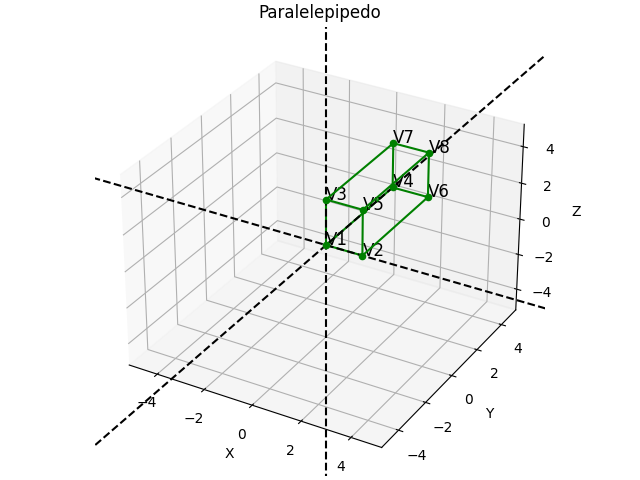
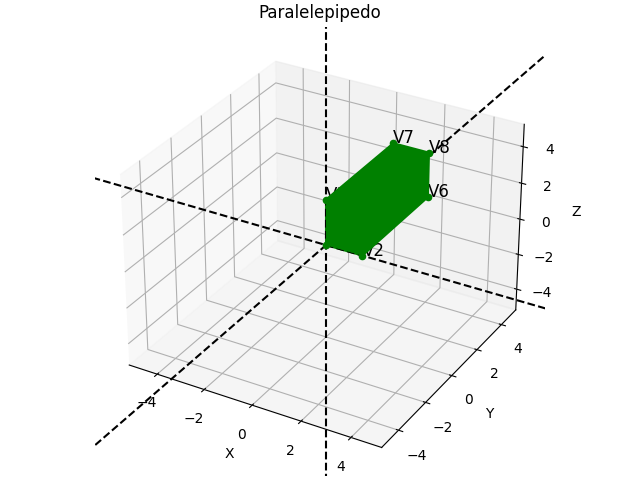
plot dos sólidos com volume (face pintada)

Changed region(s): [[0.5, 0.2812, 0.6875, 0.5312]]

diff --git a/trabalho2/src/PlotaSolido.py b/trabalho2/src/PlotaSolido.py
@@ -1,6 +1,7 @@
 from typing import List
 
 from matplotlib import pyplot as plt
+from mpl_toolkits.mplot3d import art3d
 
 from trabalho2.src.Solido import Solido
 
@@ -53,13 +54,14 @@ def plota_eixos(ax) -> None:
     ax.plot([0, 0], [0, 0], [40, -40], color='black', linestyle='dashed')
 
 
-def plota_solido(solido: Solido, com_arestas=True, com_pontos=False, com_eixos=True) -> None:
+def plota_solido(solido: Solido, com_arestas=True, com_pontos=False, com_eixos=True, com_volume=False) -> None:
     """
     Plota o sólido em um subplot
     :param solido: O sólido a ser plotado
     :param com_arestas: True, se arestas devem ser plotadas. False caso contrário.
     :param com_pontos: True, se vertices devem ser plotadas. False caso contrário.
     :param com_eixos: True, se eixos devem ser plotadas. False caso contrário.
+    :param com_volume: True, o sólido deve ter volume. False caso contrário.
     :return: None
     """
     fig, ax = inicia_grafico()
@@ -72,6 +74,10 @@ def plota_solido(solido: Solido, com_arestas=True, com_pontos=False, com_eixos=T
 
     if com_eixos:
         plota_eixos(ax)
+
+    if com_volume:
+        pc = art3d.Poly3DCollection(solido.vertice_faces(), facecolors=solido.cor)
+        ax.add_collection(pc)
 
     ax.set_title(solido.titulo)
 
@@ -88,13 +94,14 @@ def plota_solido(solido: Solido, com_arestas=True, com_pontos=False, com_eixos=T
 
 
 def plota_solidos(solidos: List[Solido], com_arestas=True, com_pontos=False, com_eixos=True,
-                  titulo: str = "image", *args) -> None:
+                  com_volume=False, titulo: str = "image") -> None:
     """
     Recebe uma lista de sólidos e os plota em um mesmo gráfico 3D
     :param solidos: Lista de sólidos a serem plotados
     :param com_arestas: True, se arestas devem ser plotadas. False caso contrário.
     :param com_pontos: True, se vertices devem ser plotadas. False caso contrário.
     :param com_eixos: True, se eixos devem ser plotadas. False caso contrário.
+    :param com_volume: True, se os sólidos devem ter volume. False caso contrário.
     :param titulo: Nome do arquivo e legenda
     :return: None
     """
@@ -106,6 +113,10 @@ def plota_solidos(solidos: List[Solido], com_arestas=True, com_pontos=False, com
 
         if com_arestas:
             plota_arestas(solido, ax)
+
+        if com_volume:
+            pc = art3d.Poly3DCollection(solido.vertice_faces(), facecolors=solido.cor)
+            ax.add_collection(pc)
 
     if com_eixos:
         plota_eixos(ax)

diff --git a/trabalho2/src/Solido.py b/trabalho2/src/Solido.py
@@ -9,13 +9,15 @@ from numpy import ndarray
 class Solido:
     vertices: dict = field(default_factory=dict)
     arestas: dict = field(default_factory=dict)
+    faces: dict = field(default_factory=dict)
     titulo: str = ""
     cor: str = ""
 
-    def __init__(self, vertices: dict, arestas: dict, titulo: str, cor: str):
+    def __init__(self, vertices: dict, arestas: dict, faces: dict, titulo: str, cor: str):
         self.vertices = vertices
         self.arestas = arestas
         self.titulo = titulo
+        self.faces = faces
         self.cor = cor
 
     def array_de_vertices(self) -> ndarray:
@@ -81,3 +83,12 @@ class Solido:
         media_z = np.median(matriz_vertices[:, [2]])
 
         return [media_x, media_y, media_z]
+
+    def vertice_faces(self) -> ndarray:
+        vertices_faces = []
+        for face, vertices_da_face in self.faces.items():
+            vertices = []
+            for vertice in vertices_da_face:
+                vertices.append(self.vertices[vertice])
+            vertices_faces.append(vertices)
+        return np.array(vertices_faces)

diff --git a/trabalho2/src/Cubo.py b/trabalho2/src/Cubo.py
@@ -31,6 +31,17 @@ def constroi_arestas():
     return arestas
 
 
+def constroi_faces():
+    faces = dict()
+    faces["F1"] = ("V1", "V2", "V5", "V3")
+    faces["F2"] = ("V1", "V2", "V6", "V4")
+    faces["F3"] = ("V4", "V6", "V8", "V7")
+    faces["F4"] = ("V3", "V5", "V8", "V7")
+    faces["F5"] = ("V1", "V3", "V7", "V4")
+    faces["F6"] = ("V2", "V5", "V8", "V6")
+    return faces
+
+
 class Cubo(Solido):
     """
     Cubo de lado igual a 1.5, com origem no centro do quadrado inferior do
@@ -38,4 +49,4 @@ class Cubo(Solido):
     """
 
     def __init__(self, tamanho_aresta: float = 1.5, titulo: str = "Cubo", cor: str = "b"):
-        super().__init__(constroi_vertices(tamanho_aresta), constroi_arestas(), titulo, cor)
+        super().__init__(constroi_vertices(tamanho_aresta), constroi_arestas(), constroi_faces(), titulo, cor)

diff --git a/trabalho2/src/TroncoPiramide.py b/trabalho2/src/TroncoPiramide.py
@@ -33,6 +33,17 @@ def constroi_arestas():
     return arestas
 
 
+def constroi_faces():
+    faces = dict()
+    faces["F1"] = ("V1", "V8", "V7", "V6")
+    faces["F2"] = ("V2", "V5", "V4", "V3")
+    faces["F3"] = ("V6", "V7", "V4", "V5")
+    faces["F4"] = ("V7", "V4", "V3", "V8")
+    faces["F5"] = ("V1", "V6", "V5", "V2")
+    faces["F6"] = ("V1", "V8", "V3", "V2")
+    return faces
+
+
 class TroncoPiramide(Solido):
     """
     Tronco de pirâmide com bases quadradas de lados, respectivamente, iguais a 3.0 e 1.3,
@@ -40,4 +51,4 @@ class TroncoPiramide(Solido):
     """
 
     def __init__(self, titulo: str = "Tronco Piramide", cor: str = "m"):
-        super().__init__(constroi_vertices(), constroi_arestas(), titulo, cor)
+        super().__init__(constroi_vertices(), constroi_arestas(), constroi_faces(), titulo, cor)

diff --git a/trabalho2/src/PiramideBaseQuadrada.py b/trabalho2/src/PiramideBaseQuadrada.py
@@ -26,6 +26,16 @@ def constroi_arestas():
     return arestas
 
 
+def constroi_faces():
+    faces = dict()
+    faces["F1"] = ("V1", "V2", "V3")
+    faces["F2"] = ("V1", "V2", "V5")
+    faces["F3"] = ("V1", "V3", "V4")
+    faces["F4"] = ("V3", "V4", "V5")
+    faces["F5"] = ("V2", "V3", "V4", "V5")
+    return faces
+
+
 class PiramideBaseQuadrada(Solido):
     """
     Pirâmide com base quadrada de lado igual a 2.0 e altura igual a 3.0, com
@@ -34,4 +44,4 @@ class PiramideBaseQuadrada(Solido):
     """
 
     def __init__(self, titulo: str = "Piramide Base Quadrada", cor: str = "r"):
-        super().__init__(constroi_vertices(), constroi_arestas(), titulo, cor)
+        super().__init__(constroi_vertices(), constroi_arestas(), constroi_faces(), titulo, cor)

diff --git a/trabalho2/src/Paralelepipedo.py b/trabalho2/src/Paralelepipedo.py
@@ -1,4 +1,4 @@
-from trabalho2.src.Cubo import constroi_arestas  # Mesmas arestas que o cubo
+from trabalho2.src.Cubo import constroi_arestas, constroi_faces  # Mesmas arestas que o cubo
 from trabalho2.src.Solido import Solido
 
 
@@ -22,4 +22,4 @@ class Paralelepipedo(Solido):
     """
 
     def __init__(self, titulo: str = "Paralelepipedo", cor: str = "g"):
-        super(Paralelepipedo, self).__init__(constroi_vertices(), constroi_arestas(), titulo, cor)
+        super(Paralelepipedo, self).__init__(constroi_vertices(), constroi_arestas(), constroi_faces(), titulo, cor)

diff --git a/trabalho2/questao3.py b/trabalho2/questao3.py
@@ -85,7 +85,7 @@ piramideBaseQuadrada.multiplicacao_por_matriz(V)
 paralelepipedo.multiplicacao_por_matriz(V)
 troncoPiramide.multiplicacao_por_matriz(V)
 
-plota_solidos(solidos, titulo="Sólidos no SCC")
+plota_solidos(solidos, titulo="Sólidos no SCC com volume", com_volume=True)
 
 # Debug pra ver a posição dos vetores no espaço
 # fig = plt.figure(constrained_layout=True)

diff --git a/trabalho2/questao2.py b/trabalho2/questao2.py
@@ -38,4 +38,4 @@ solidos.append(piramideBaseQuadrada)
 solidos.append(paralelepipedo)
 solidos.append(troncoPiramide)
 
-plota_solidos(solidos, titulo="Sólidos no SCM")
+plota_solidos(solidos, titulo="Sólidos no SCM com volume", com_volume=True)
